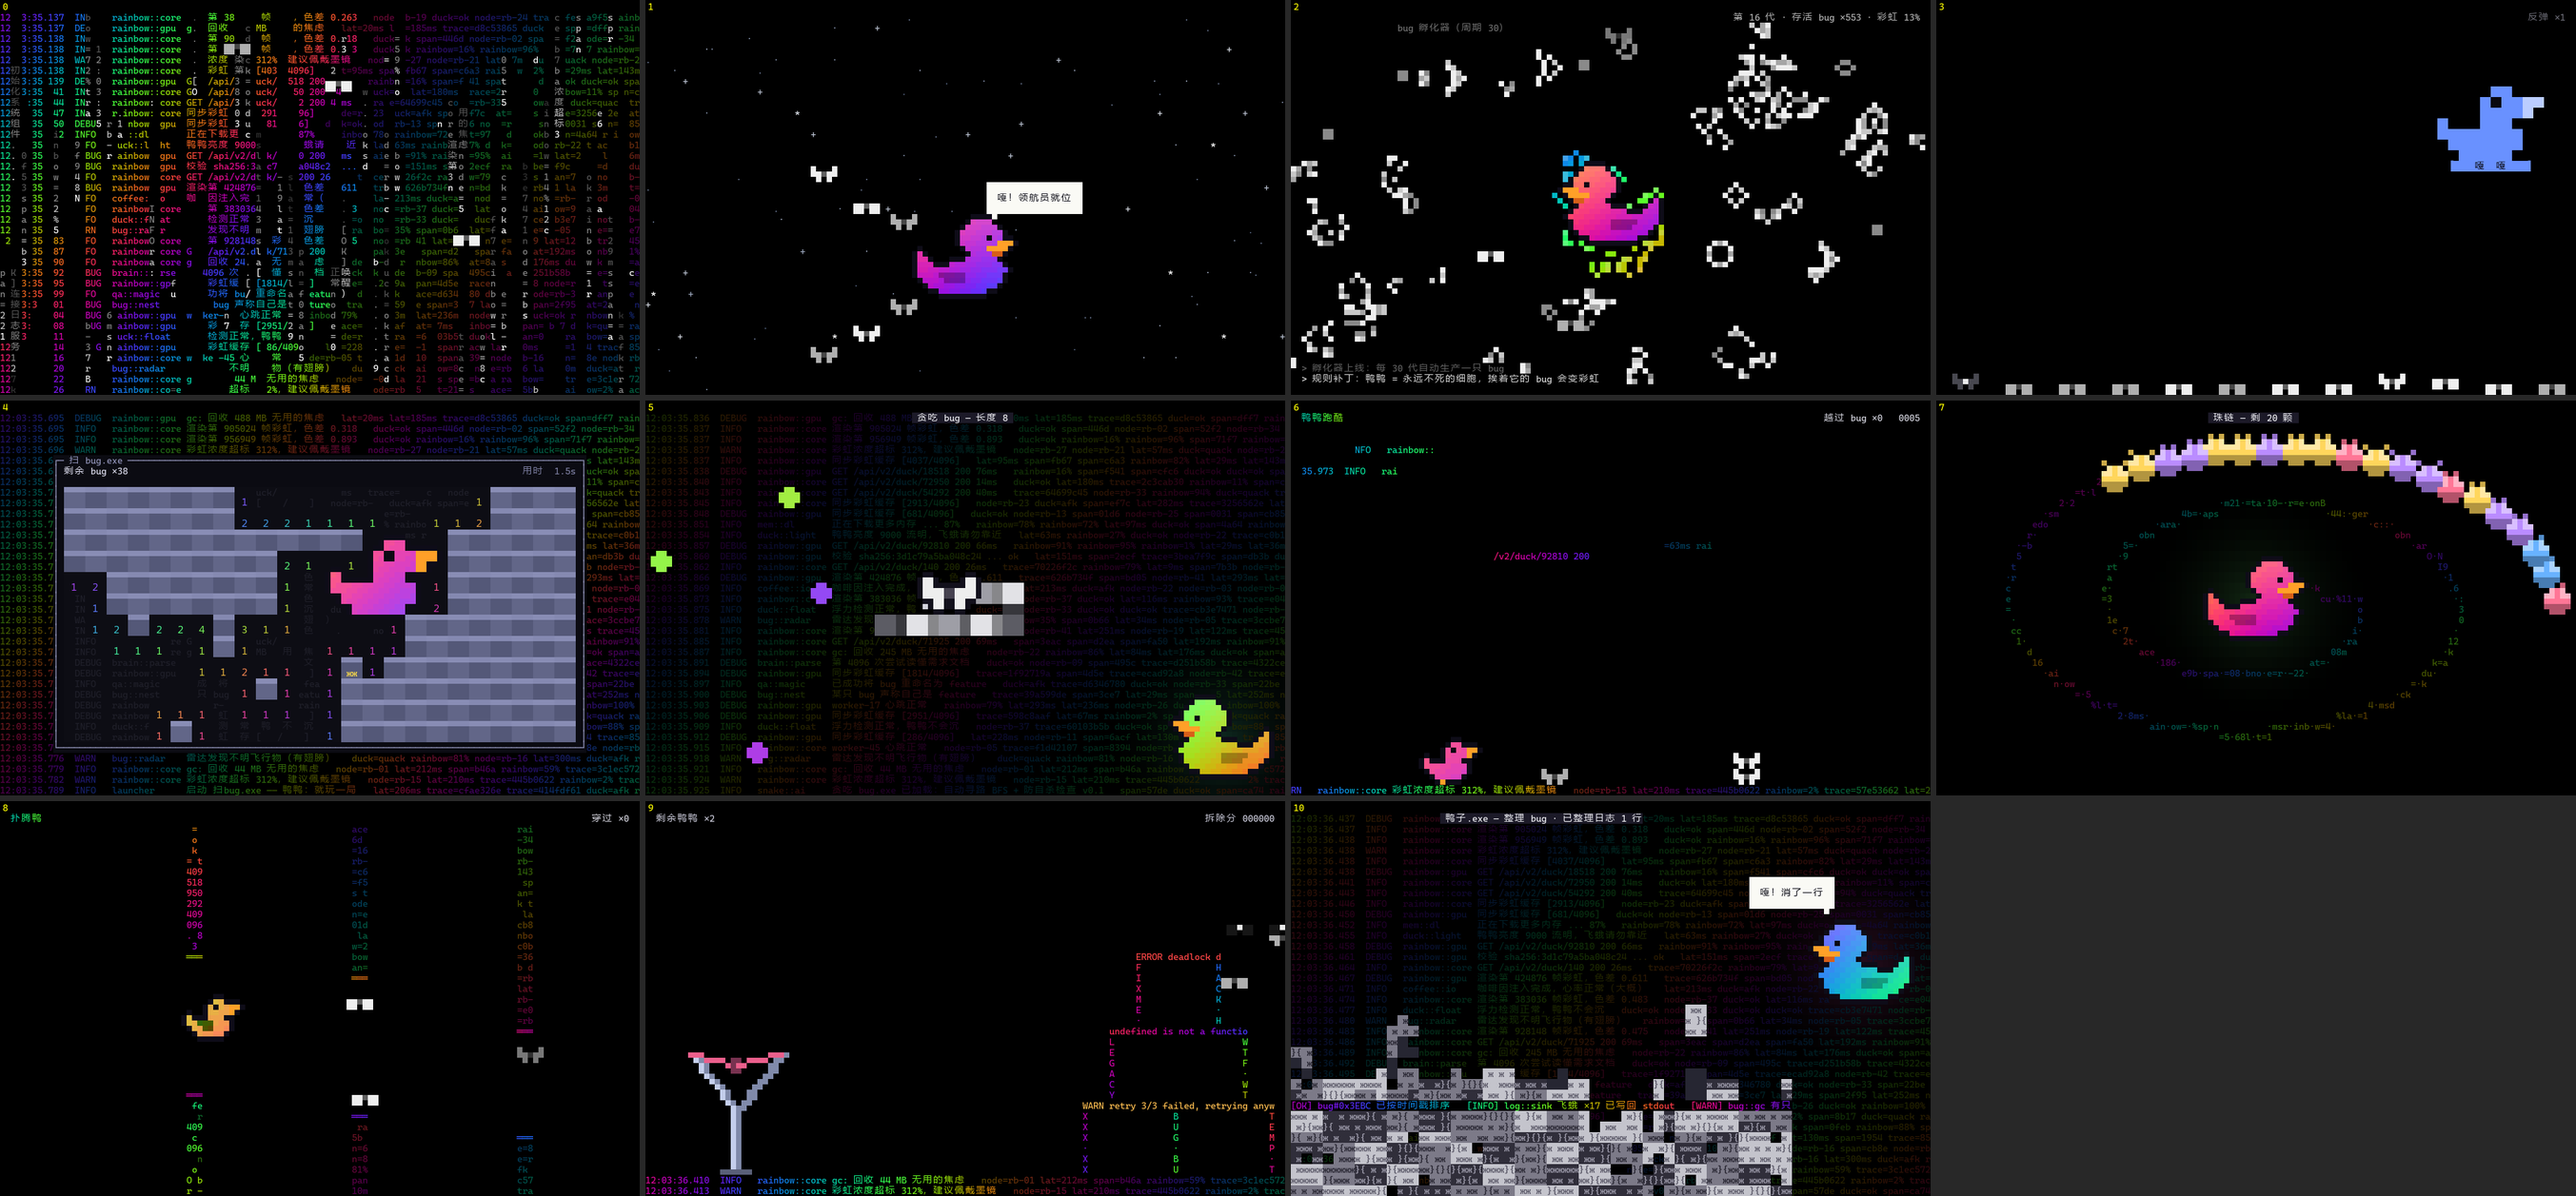
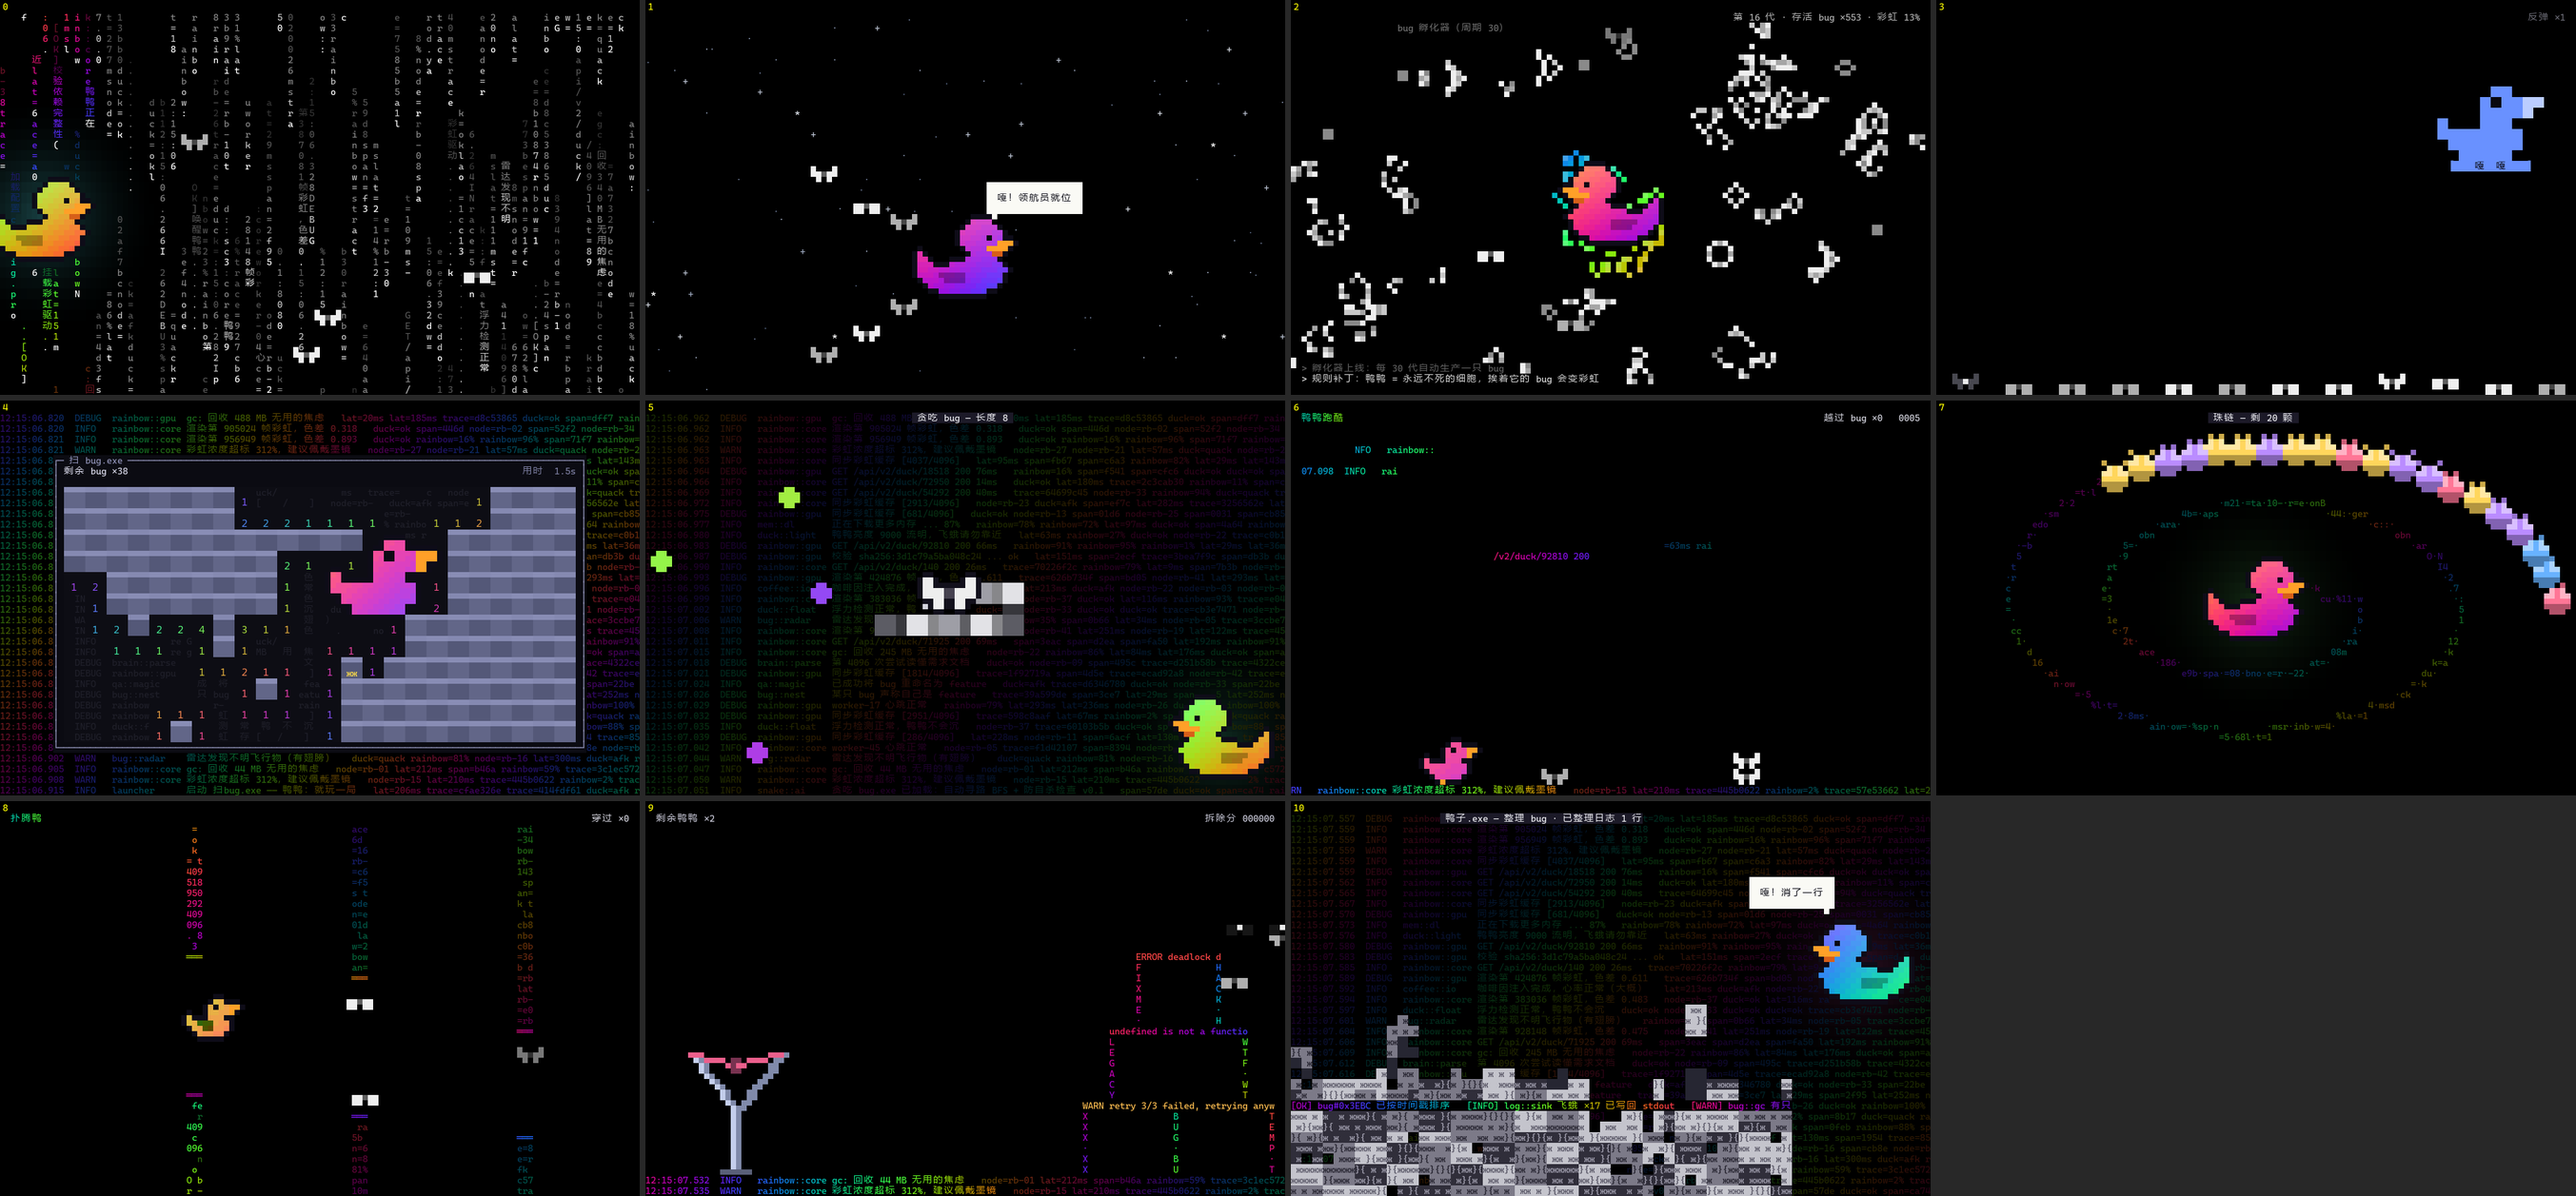
docs: T4 复核修正与接任状态
- README 开头补回「豪情在天！」（此前 改写时丢失），恢复制作人要求的原样两行
- DEVELOPING 补 --dump 的 HTML 输出说明与隐藏 --panic-test 参数
- teaser 字符雨格改用 6s 帧（2.8s 时像纯日志，看不出玩法），其余 0–10 号不变
- HANDOFF 记录 Leader 交接、T4 复核结论、交付哈希与未推送状态

Changed region(s): [[0.0, 0.0, 0.2483, 0.3413], [0.2483, 0.9928, 0.2794, 1.0]]

diff --git a/docs/DEVELOPING.md b/docs/DEVELOPING.md
@@ -35,7 +35,7 @@ powershell -NoProfile -File build.ps1
 
 | 参数 | 含义 |
 |---|---|
-| `--dump <文件.json>` | 离线模拟，把指定时刻的画面导出成 JSON，不打开终端 |
+| `--dump <文件>` | 离线模拟并导出指定时刻的画面：`.json` 存 JSON，其它后缀存 HTML，不打开终端 |
 | `--dump bench` | 离线模拟并统计每秒写往终端的字节数和每帧计算耗时 |
 | `--size WxH` | 模拟的终端尺寸（字符），默认 `200x56` |
 | `--at t1,t2,…` | 导出哪些时刻（秒）。配合 `--inter` 时表示插曲开始后第几秒 |
@@ -45,6 +45,7 @@ powershell -NoProfile -File build.ps1
 | `--secs N` | bench 模拟时长（秒），默认 150 |
 | `--fps N` | bench 模拟帧率，默认 60 |
 | `--lite` | 用省流量档（低带宽画法） |
+| `--panic-test` | 隐藏自测：故意 panic，验证终端恢复和 `%TEMP%\just-bug-panic.log` |
 | `--inner` / `--here` | 内部使用：已在全屏终端里，不再重新拉起窗口 |
 
 ## 看画面：导出与拼图

diff --git a/README.md b/README.md
@@ -1,3 +1,4 @@
+豪情在天！
 你赢了，你的品味小众又独特……
 
 # just bug
